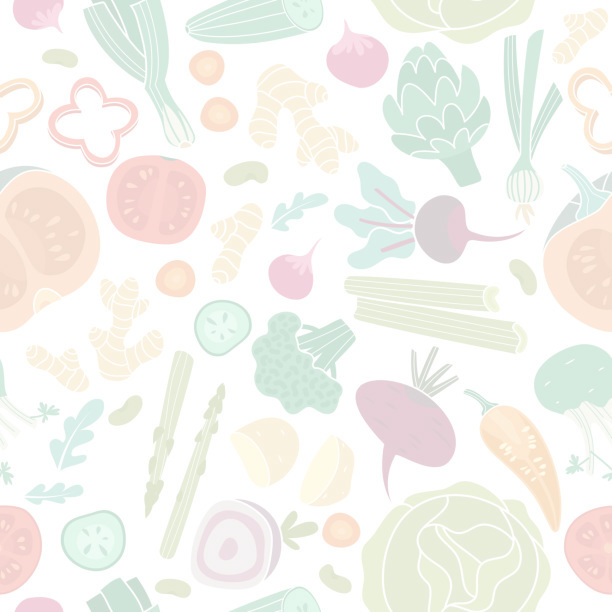
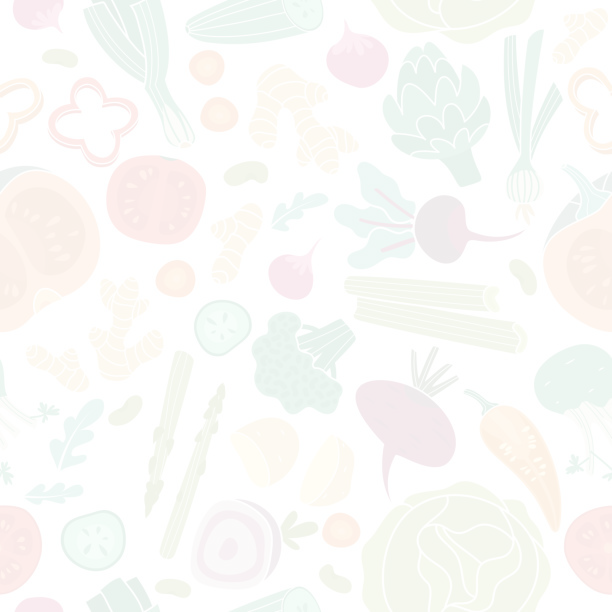
STYLE: Background image made to be more transparent for user to not have any difficult in viewing page content. Styling of page content also done for templates.

diff --git a/static/css/style.css b/static/css/style.css
@@ -23,13 +23,16 @@ body {
 }
 
 .page-title {
-    margin-bottom: 40px;
+    margin-bottom: 20px;
     font-weight: 700;
     text-shadow: 2px 2px 2px #fff;
+    letter-spacing: 2px;
 }
 
 .card-panel {
     box-sizing: border-box;
+    padding: 10px 24px;
+    margin-bottom: 0px;
 }
 
 .btn-large {
@@ -85,6 +88,7 @@ body {
 .full-recipe-title {
     margin-top: 10px;
     margin-bottom: 30px;
+    font-weight: 700;
 }
 
 .food-image {
@@ -137,4 +141,11 @@ div.method-steps div:before {
 hr {
     width:50%;
     margin:0 auto;
+}
+
+/* Register page */
+
+.click-to-login {
+    font-weight: 700;
+    margin: 0px;
 }
